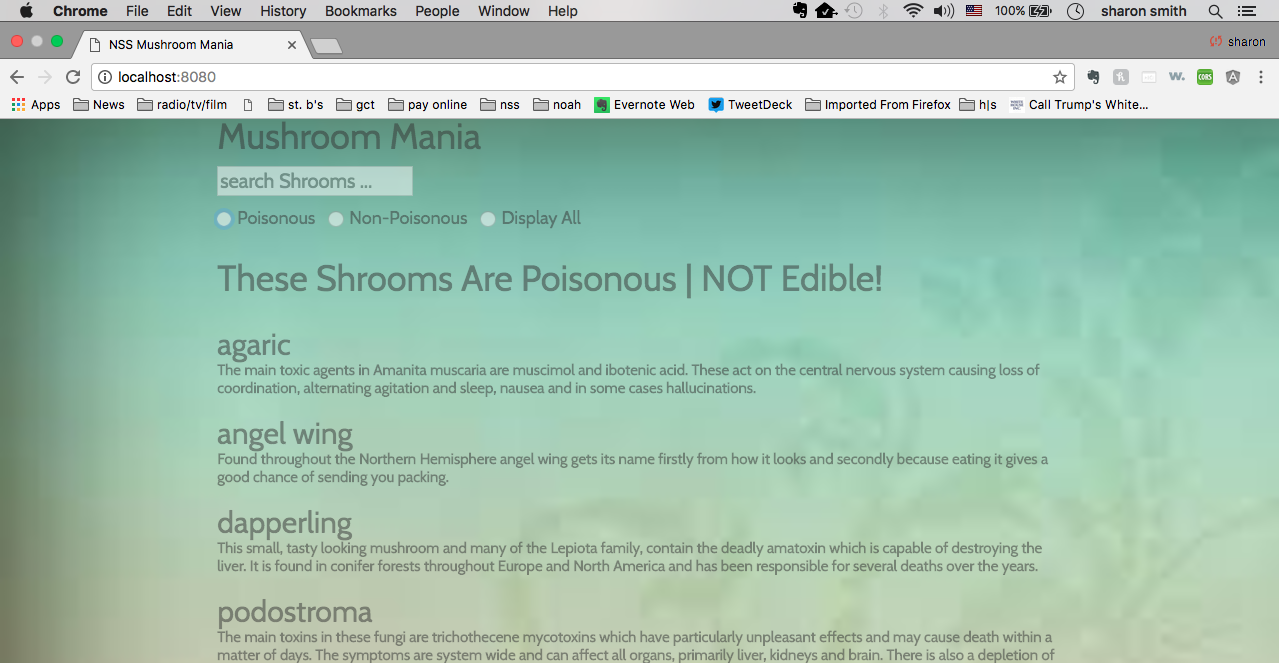
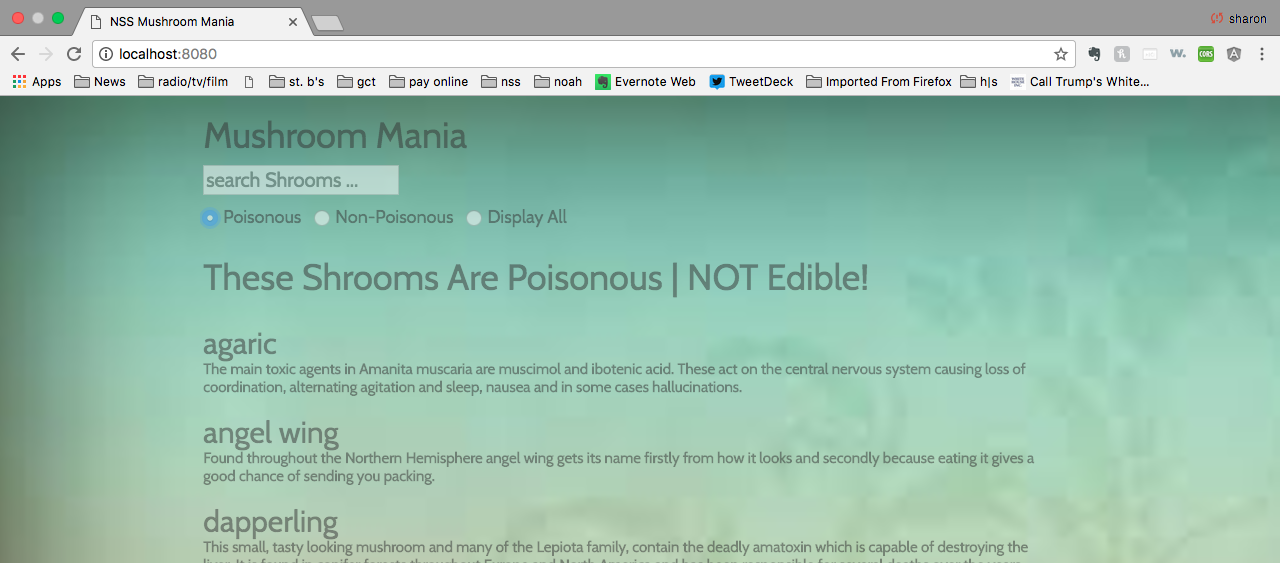
final code w new screen grabs

Changed region(s): [[0.0, 0.0, 1.0, 0.8757], [0.1525, 0.9059, 0.8233, 1.0]]

diff --git a/index.html b/index.html
@@ -25,13 +25,13 @@
 			</div>
 			<div class="radio col-xs-8 col-xs-offset-2">
 				<label class="radio-inline">
-				<input type="radio" ng-model="poisonFilter" ng-click="showPoisonous()" name="shroomType">Poisonous</label>
+				<input type="radio" ng-click="showPoisonous()" name="shroomType">Poisonous</label>
 
 				<label class="radio-inline">
-				<input type="radio" ng-model="poisonFilter" ng-click="showNonPoisonous()" name="shroomType">Non-Poisonous</label>
+				<input type="radio" ng-click="showNonPoisonous()" name="shroomType">Non-Poisonous</label>
 
 				<label class="radio-inline">
-				<input type="radio" ng-model="poisonFilter" ng-click="showAll()" value="undefined" name="shroomType">Display All</label>
+				<input type="radio" ng-click="showAll()" ng-checked="true" name="shroomType">Display All</label>
 			</div>
 		</div>			
 

diff --git a/javascripts/main.js b/javascripts/main.js
@@ -5,7 +5,6 @@ app.run((FIREBASE_CONFIG) => {
 
 app.controller("ShroomCtrl", ($http, $q, $scope, FIREBASE_CONFIG) => {
 
-	$scope.poisonFilter = undefined;
 	$scope.mushrooms = [];
 
 
@@ -22,7 +21,7 @@ app.controller("ShroomCtrl", ($http, $q, $scope, FIREBASE_CONFIG) => {
 
 
 	$scope.showAll = () => {
-		$scope.poisonFilter = undefined;
+		$scope.poisonFilter = "";
 		$scope.shroomHeader = "All Shrooms | Both Poisonous and Non-Poisonous";
 	};
 
